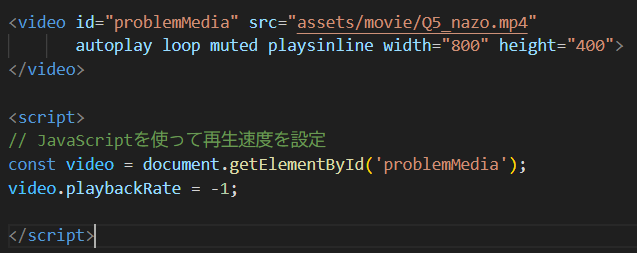
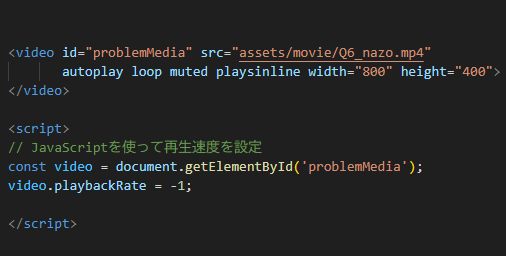
a

diff --git a/rules.html b/rules.html
@@ -283,7 +283,7 @@ sceneObjects.forEach(obj => scene.add(obj));
 
 
 
-<video id="problemMedia" src="assets/movie/Q5_nazo.mp4"
+<video id="problemMedia" src="assets/movie/Q6_nazo.mp4"
        autoplay loop muted playsinline width="800" height="400">
 </video>
 
